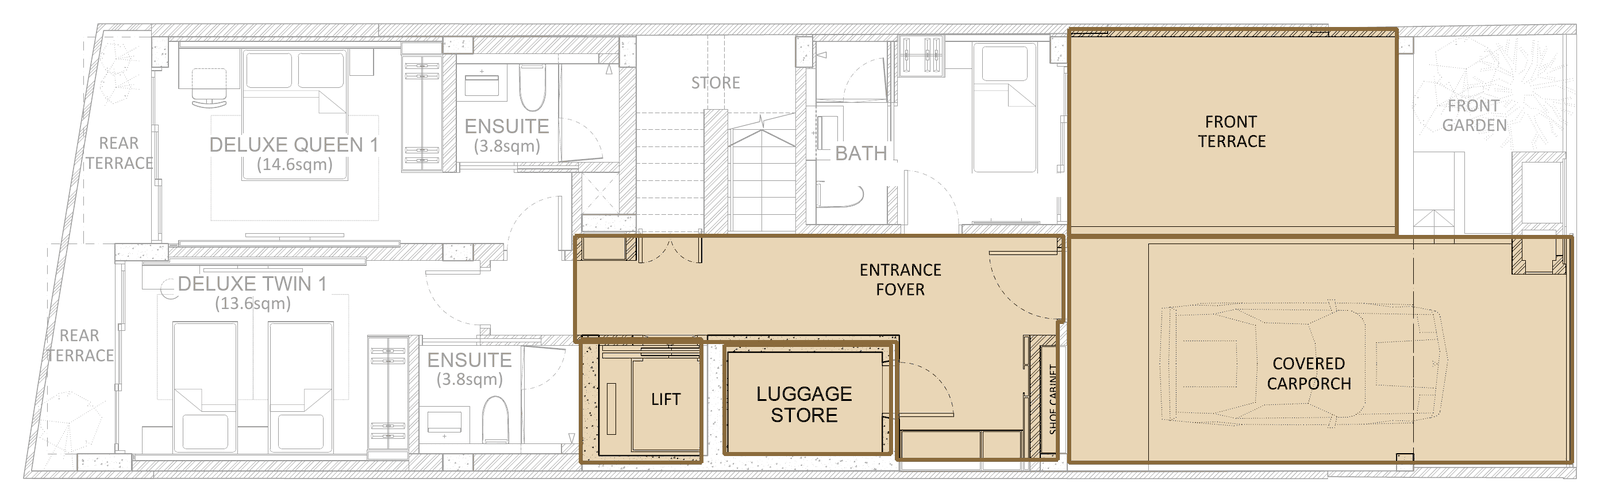
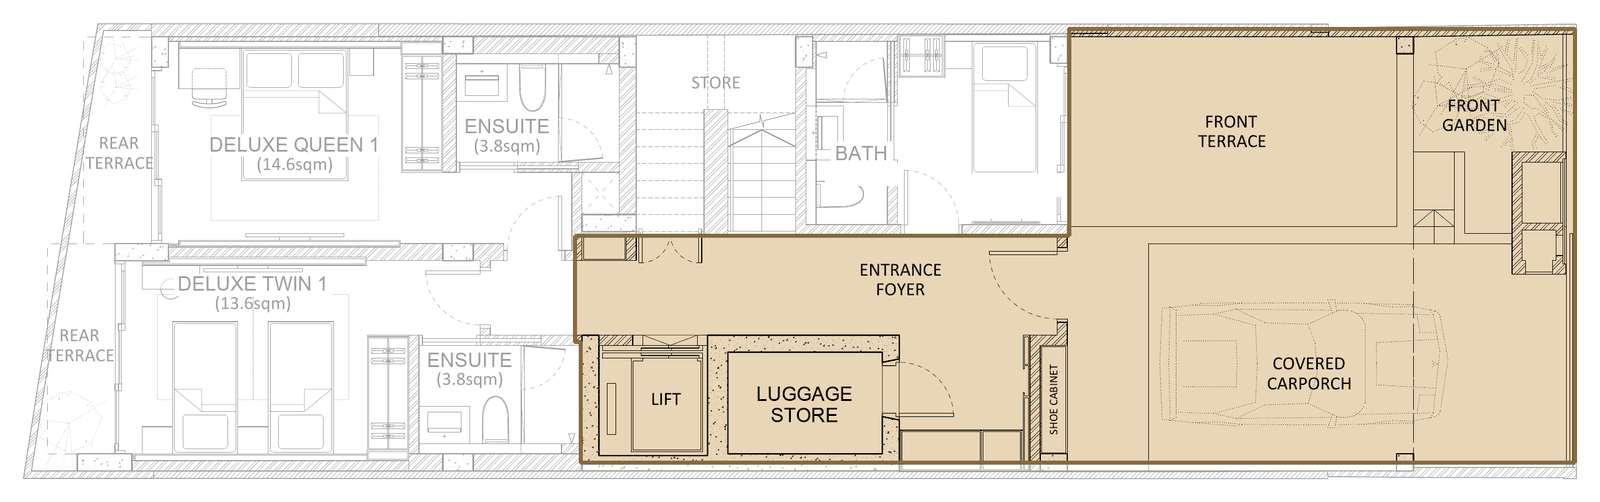
Features floor plans: floors 1 and 5 shared areas as one continuous space; add front garden

Changed region(s): [[0.3438, 0.0299, 1.0, 0.9263]]

diff --git a/ja/features.html b/ja/features.html
@@ -73,7 +73,7 @@
           <p class="lede">共用スペースをフロアごとにご紹介します。ホームエレベーターは全フロアに停まります。</p>
         </div>
         <div class="floorplans reveal" data-lightbox>
-          <figure><img src="../assets/img/plans/floor-1-shared.png" alt="1階 · エントランスホール、フロントテラス、カーポーチ、荷物置き場、エレベーター" loading="lazy"><figcaption>1階 · エントランスホール、フロントテラス、カーポーチ、荷物置き場、エレベーター</figcaption></figure>
+          <figure><img src="../assets/img/plans/floor-1-shared.png" alt="1階 · エントランスホール、フロントテラス、フロントガーデン、カーポーチ、荷物置き場、エレベーター" loading="lazy"><figcaption>1階 · エントランスホール、フロントテラス、フロントガーデン、カーポーチ、荷物置き場、エレベーター</figcaption></figure>
           <figure><img src="../assets/img/plans/floor-2-shared.png" alt="2階 · リビング、ダイニング、キッチン、オープンバルコニー" loading="lazy"><figcaption>2階 · リビング、ダイニング、キッチン、オープンバルコニー</figcaption></figure>
           <figure><img src="../assets/img/plans/floor-5-laundry.png" alt="5階 · ホール、ランドリーテラス、エレベーター" loading="lazy"><figcaption>5階 · ホール、ランドリーテラス、エレベーター</figcaption></figure>
         </div>

diff --git a/es/features.html b/es/features.html
@@ -73,7 +73,7 @@
           <p class="lede">Los espacios compartidos, planta por planta. El ascensor se detiene en todas las plantas.</p>
         </div>
         <div class="floorplans reveal" data-lightbox>
-          <figure><img src="../assets/img/plans/floor-1-shared.png" alt="Planta 1 · vestíbulo de entrada, terraza delantera, porche para el coche, consigna de equipaje y ascensor" loading="lazy"><figcaption>Planta 1 · vestíbulo de entrada, terraza delantera, porche para el coche, consigna de equipaje y ascensor</figcaption></figure>
+          <figure><img src="../assets/img/plans/floor-1-shared.png" alt="Planta 1 · vestíbulo de entrada, terraza delantera, jardín delantero, porche para el coche, consigna de equipaje y ascensor" loading="lazy"><figcaption>Planta 1 · vestíbulo de entrada, terraza delantera, jardín delantero, porche para el coche, consigna de equipaje y ascensor</figcaption></figure>
           <figure><img src="../assets/img/plans/floor-2-shared.png" alt="Planta 2 · salón, comedor, cocina y balcón abierto" loading="lazy"><figcaption>Planta 2 · salón, comedor, cocina y balcón abierto</figcaption></figure>
           <figure><img src="../assets/img/plans/floor-5-laundry.png" alt="Planta 5 · vestíbulo, terraza de lavandería y ascensor" loading="lazy"><figcaption>Planta 5 · vestíbulo, terraza de lavandería y ascensor</figcaption></figure>
         </div>

diff --git a/fr/features.html b/fr/features.html
@@ -73,7 +73,7 @@
           <p class="lede">Les espaces communs, étage par étage. L'ascenseur privatif dessert chaque étage.</p>
         </div>
         <div class="floorplans reveal" data-lightbox>
-          <figure><img src="../assets/img/plans/floor-1-shared.png" alt="1er étage · hall d'entrée, terrasse avant, abri à voiture, rangement des bagages et ascenseur" loading="lazy"><figcaption>1er étage · hall d'entrée, terrasse avant, abri à voiture, rangement des bagages et ascenseur</figcaption></figure>
+          <figure><img src="../assets/img/plans/floor-1-shared.png" alt="1er étage · hall d'entrée, terrasse avant, jardin avant, abri à voiture, rangement des bagages et ascenseur" loading="lazy"><figcaption>1er étage · hall d'entrée, terrasse avant, jardin avant, abri à voiture, rangement des bagages et ascenseur</figcaption></figure>
           <figure><img src="../assets/img/plans/floor-2-shared.png" alt="2e étage · salon, salle à manger, cuisine et balcon ouvert" loading="lazy"><figcaption>2e étage · salon, salle à manger, cuisine et balcon ouvert</figcaption></figure>
           <figure><img src="../assets/img/plans/floor-5-laundry.png" alt="5e étage · palier, terrasse de buanderie et ascenseur" loading="lazy"><figcaption>5e étage · palier, terrasse de buanderie et ascenseur</figcaption></figure>
         </div>

diff --git a/features.html b/features.html
@@ -72,7 +72,7 @@
           <p class="lede">The shared spaces, floor by floor. The home lift stops on every floor.</p>
         </div>
         <div class="floorplans reveal" data-lightbox>
-          <figure><img src="assets/img/plans/floor-1-shared.png" alt="1st floor · entrance foyer, front terrace, car porch, luggage storeroom and lift" loading="lazy"><figcaption>1st floor · entrance foyer, front terrace, car porch, luggage storeroom and lift</figcaption></figure>
+          <figure><img src="assets/img/plans/floor-1-shared.png" alt="1st floor · entrance foyer, front terrace, front garden, car porch, luggage storeroom and lift" loading="lazy"><figcaption>1st floor · entrance foyer, front terrace, front garden, car porch, luggage storeroom and lift</figcaption></figure>
           <figure><img src="assets/img/plans/floor-2-shared.png" alt="2nd floor · living, dining, kitchen and open balcony" loading="lazy"><figcaption>2nd floor · living, dining, kitchen and open balcony</figcaption></figure>
           <figure><img src="assets/img/plans/floor-5-laundry.png" alt="5th floor · foyer, laundry terrace and lift" loading="lazy"><figcaption>5th floor · foyer, laundry terrace and lift</figcaption></figure>
         </div>

diff --git a/zh/features.html b/zh/features.html
@@ -73,7 +73,7 @@
           <p class="lede">按楼层查看公共空间。家用电梯每层都停。</p>
         </div>
         <div class="floorplans reveal" data-lightbox>
-          <figure><img src="../assets/img/plans/floor-1-shared.png" alt="1 楼 · 入口门厅、前庭露台、车廊、行李存放室和电梯" loading="lazy"><figcaption>1 楼 · 入口门厅、前庭露台、车廊、行李存放室和电梯</figcaption></figure>
+          <figure><img src="../assets/img/plans/floor-1-shared.png" alt="1 楼 · 入口门厅、前庭露台、前花园、车廊、行李存放室和电梯" loading="lazy"><figcaption>1 楼 · 入口门厅、前庭露台、前花园、车廊、行李存放室和电梯</figcaption></figure>
           <figure><img src="../assets/img/plans/floor-2-shared.png" alt="2 楼 · 客厅、餐厅、厨房和开放式阳台" loading="lazy"><figcaption>2 楼 · 客厅、餐厅、厨房和开放式阳台</figcaption></figure>
           <figure><img src="../assets/img/plans/floor-5-laundry.png" alt="5 楼 · 门厅、洗衣露台和电梯" loading="lazy"><figcaption>5 楼 · 门厅、洗衣露台和电梯</figcaption></figure>
         </div>

diff --git a/tools/floor_plans.py b/tools/floor_plans.py
@@ -70,6 +70,9 @@ P = {
     "dq1-terr":   (1, [(182, 62), (268, 62), (268, 422), (140, 422)]),
     "dt1-terr":   (1, [(135, 428), (212, 428), (212, 800), (62, 800)]),
     "foyer-1":    (1, [(1000, 410), (1850, 410), (1850, 560), (1840, 560), (1840, 800), (1560, 800), (1560, 595), (1000, 595)]),
+    # Shared areas drawn as one continuous outline (PK, 2026-10-15)
+    "shared-1":   (1, [(1000, 410), (1860, 410), (1860, 50), (2740, 50), (2740, 805), (1010, 805), (1010, 595), (1000, 595)]),
+    "shared-5":   (5, [(905, 400), (1180, 400), (1180, 420), (1500, 420), (1500, 70), (1700, 70), (1700, 790), (920, 790), (920, 588), (905, 588)]),
     "carporch":   (1, [(1860, 412), (2735, 412), (2735, 805), (1860, 805)]),
     "laundry":    (5, [(1180, 420), (1500, 420), (1500, 70), (1700, 70), (1700, 790), (1180, 790)]),
     "lift-1":     (1, [(1010, 590), (1220, 590), (1220, 805), (1010, 805)]),
@@ -92,9 +95,9 @@ JOBS = {  # output name: (floor, [polygons])
     "plan-deluxe-twin-1":  (1, ["dt-ground", "dt1-terr"]),
     "plan-deluxe-twin-3":  (3, ["dt-upper"]),
     "plan-deluxe-twin-4":  (4, ["dt-upper"]),
-    "floor-1-shared":      (1, ["foyer-1", "front-terr", "carporch", "luggage", "lift-1"]),
+    "floor-1-shared":      (1, ["shared-1"]),
     "floor-2-shared":      (2, []),  # the whole floor is shared: no highlight
-    "floor-5-laundry":     (5, ["foyer-5", "laundry", "lift-5"]),
+    "floor-5-laundry":     (5, ["shared-5"]),
 }
 
 
